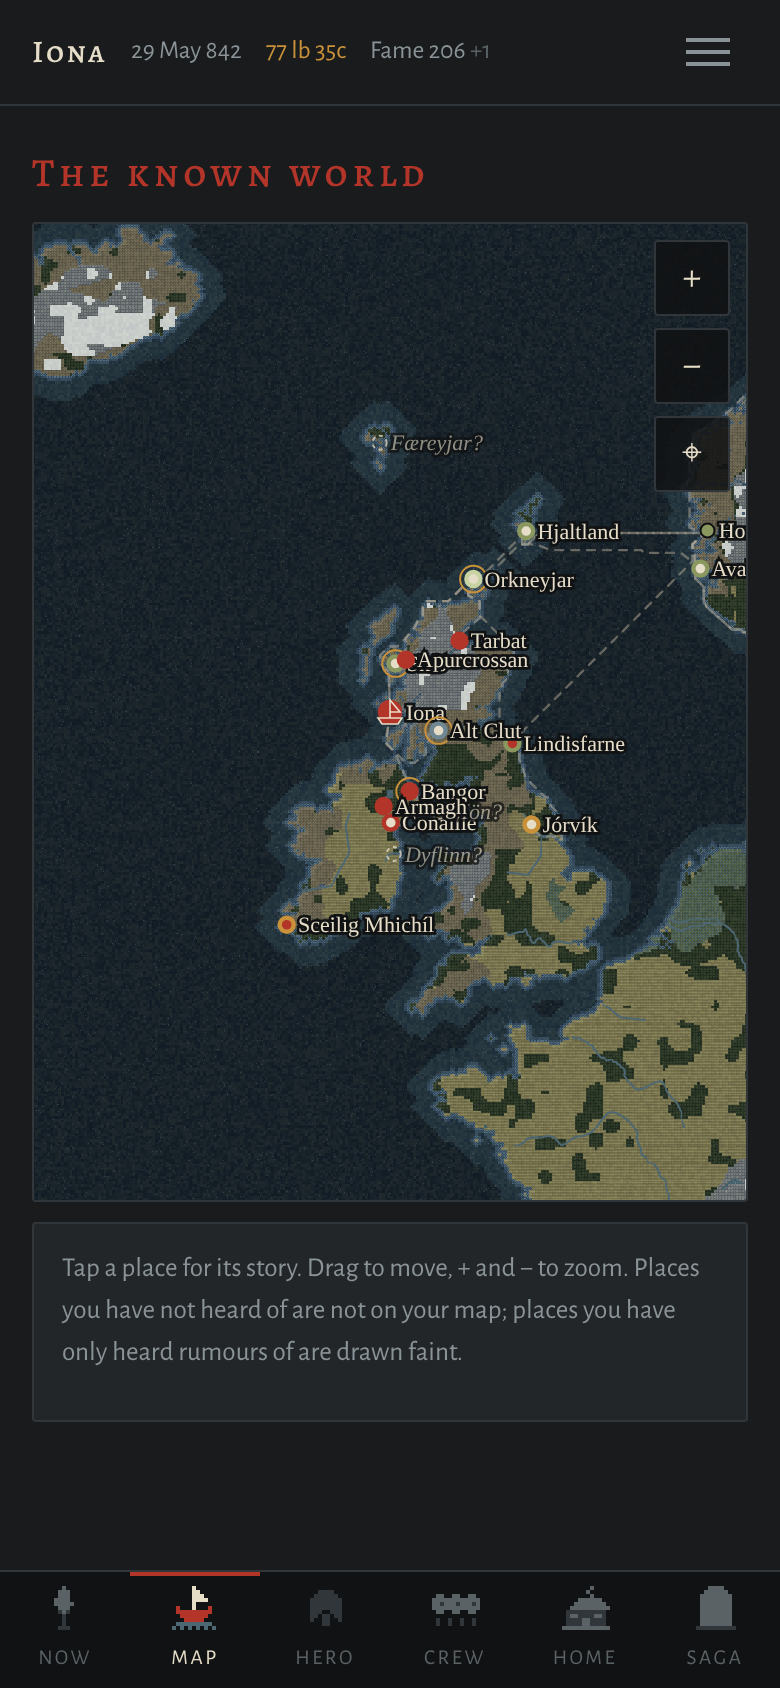
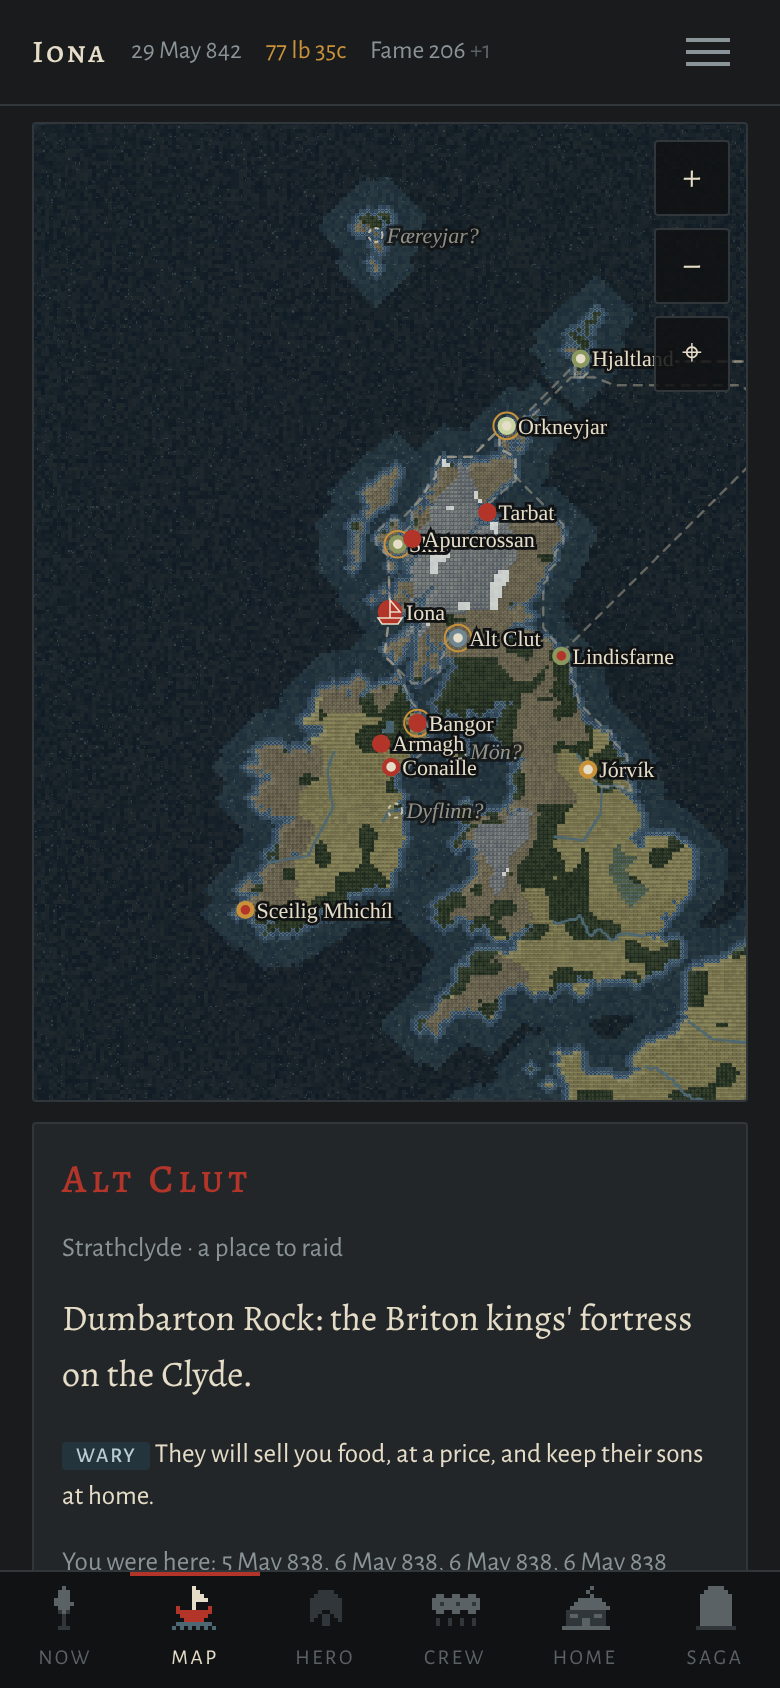
Store page kit: press script and map shot, work in progress
Claude-Session: https://claude.ai/code/session_01LTrLvuuk9fJ3UpnrRtpCFC

diff --git a/tools/make-press.ts b/tools/make-press.ts
@@ -207,7 +207,8 @@ async function shots(taken: Taken): Promise<string[]> {
   const srv = await serve();
   const base = `http://localhost:${srv.port}/`;
   const browser = await launch();
-  const page = await browser.newPage({ viewport: { width: 390, height: 844 }, deviceScaleFactor: 2, reducedMotion: 'reduce' });
+  // a phone: touch, so a place on the map opens to a tap (a mouse click on one goes to the map's pointer capture instead)
+  const page = await browser.newPage({ viewport: { width: 390, height: 844 }, deviceScaleFactor: 2, isMobile: true, hasTouch: true, reducedMotion: 'reduce' });
   const errors: string[] = [];
   page.on('pageerror', (e) => errors.push(e.message));
   page.on('console', (m) => { if (m.type() === 'error') errors.push(m.text()); });
@@ -248,24 +249,33 @@ async function shots(taken: Taken): Promise<string[]> {
     await page.locator('nav.tabs button', { hasText: 'Map' }).click();
     await settle(page);
     // one step closer, and a tap on a place one leg away: its story card and the course to it
-    await page.getByRole('button', { name: 'Zoom in' }).click();
+    await page.getByRole('button', { name: 'Zoom in' }).tap();
     await page.waitForTimeout(700);
-    const legs = listActions(taken.mid, content).filter((o) => o.enabled && o.action.t === 'sail').map((o) => content.places[(o.action as { to: string }).to]!);
+    const legs = listActions(taken.mid, content).filter((o) => o.enabled && (o.action.t === 'sail' || o.action.t === 'course')).map((o) => content.places[(o.action as { to: string }).to]!);
     const box = (await page.locator('.mapbox').boundingBox())!;
     let tapped = '';
-    for (const pl of legs.filter((x) => x.raid).concat(legs)) {
+    // a place he has not been to keeps the card short (no list of visits); a place to raid says more about the game
+    const been = (name: string) => taken.mid!.journal.some((j) => j.text.includes(name));
+    const order = [...legs].sort((a, b) => Number(been(a.name)) - Number(been(b.name)) || Number(!a.raid) - Number(!b.raid));
+    for (const pl of order) {
       const t = page.locator('.mapbox svg text', { hasText: new RegExp(`^${pl.name}$`) }).first();
       const r = await t.boundingBox().catch(() => null);
-      if (process.env.PRESS_DEBUG) console.log('map label', pl.name, JSON.stringify(r), JSON.stringify(box));
       if (!r || r.x < box.x + 8 || r.x + r.width > box.x + box.width - 60 || r.y < box.y + 8 || r.y + r.height > box.y + box.height - 8) continue;
       // a label standing clear of the others, so the tap is plainly on it
       const crowded = await page.locator('.mapbox svg text').evaluateAll((els, me) => els.some((e) => { const q = e.getBoundingClientRect(); return e.textContent !== me.name && q.right > me.x - 4 && q.left < me.x + me.w + 4 && q.bottom > me.y - 4 && q.top < me.y + me.h + 4; }), { name: pl.name, x: r.x, y: r.y, w: r.width, h: r.height });
-      if (process.env.PRESS_DEBUG) console.log('  crowded', crowded);
       if (crowded) continue;
-      await t.click();
+      await t.tap();
       await page.waitForTimeout(200);
       if (await page.locator('.placeinfo h2').count()) { tapped = pl.name; break; }
     }
+    // as much of the card as fits above the tab bar, never scrolling the map's own top edge (and its buttons) away
+    await page.evaluate((bar) => {
+      const c = document.querySelector('.placeinfo'), m = document.querySelector('.mapbox'), top = document.querySelector('.topbar');
+      if (!c || !m || !top) return;
+      const want = c.getBoundingClientRect().bottom + scrollY - bar + 12;
+      const most = m.getBoundingClientRect().top + scrollY - top.getBoundingClientRect().height - 8;
+      scrollTo(0, Math.max(0, Math.min(want, most)));
+    }, tabBar);
     console.log(`press: map, ${tapped ? `tapped ${tapped}` : `no clear label to tap among ${legs.map((x) => x.name).join(', ') || 'no legs'}`}`);
     await settle(page);
     problems.push(...(await audit(page, 'map')));
